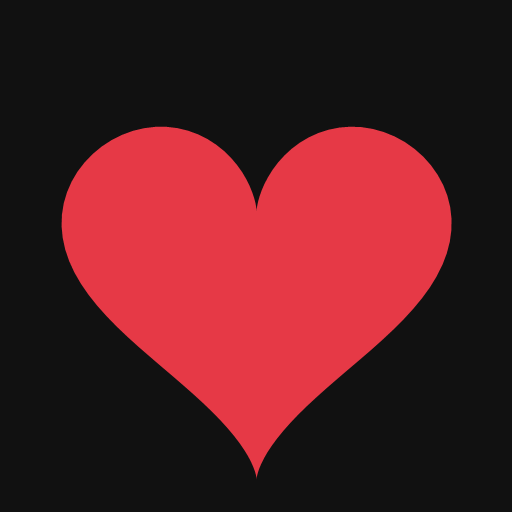
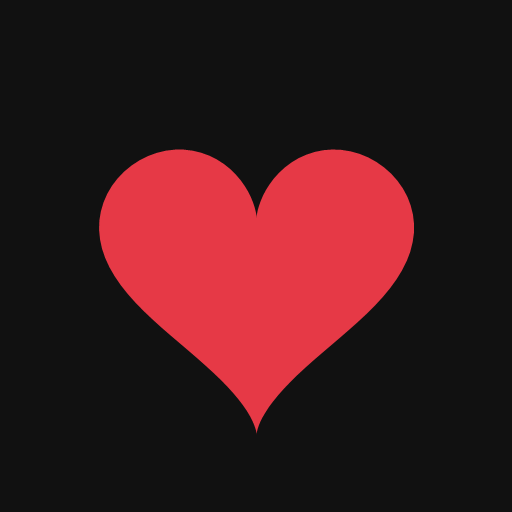
Improve PWA installability for home screen on iOS and Android.

Changed region(s): [[0.0938, 0.25, 0.9062, 0.9375], [0.4688, 0.3438, 0.5312, 0.4062]]

diff --git a/script.js b/script.js
@@ -102,15 +102,25 @@ function urlBase64ParaUint8Array(base64String) {
 }
 
 function ehIOS() {
-    return /iphone|ipad|ipod/i.test(navigator.userAgent);
+    return /iphone|ipad|ipod/i.test(navigator.userAgent) ||
+        (navigator.platform === 'MacIntel' && navigator.maxTouchPoints > 1);
+}
+
+function ehAndroid() {
+    return /android/i.test(navigator.userAgent);
 }
 
 function ehPWA() {
-    return window.matchMedia('(display-mode: standalone)').matches || window.navigator.standalone === true;
+    return window.matchMedia('(display-mode: standalone)').matches ||
+        window.matchMedia('(display-mode: fullscreen)').matches ||
+        window.navigator.standalone === true ||
+        new URLSearchParams(location.search).get('source') === 'pwa';
 }
 
 const NOTIF_ASKED_KEY = 'nosso-dia-notif-asked';
+const PWA_DISMISS_KEY = 'nosso-dia-pwa-dismiss';
 const pwaInstall = document.getElementById('pwa-install');
+const pwaInstallTexto = document.getElementById('pwa-install-texto');
 const btnInstall = document.getElementById('btn-install');
 const btnInstallFechar = document.getElementById('btn-install-fechar');
 let promptInstalacao = null;
@@ -124,34 +134,76 @@ function marcarPedidoNotificacao() {
     localStorage.setItem(NOTIF_ASKED_KEY, '1');
 }
 
+function mostrarBannerPWA(texto, rotuloBotao) {
+    if (!pwaInstall || ehPWA()) return;
+    if (localStorage.getItem(PWA_DISMISS_KEY) === '1') return;
+    if (texto && pwaInstallTexto) pwaInstallTexto.textContent = texto;
+    if (rotuloBotao && btnInstall) btnInstall.textContent = rotuloBotao;
+    pwaInstall.classList.remove('hidden');
+}
+
 if ('serviceWorker' in navigator) {
-    navigator.serviceWorker.register('./sw.js').catch(() => {});
+    navigator.serviceWorker.register('/sw.js', { scope: '/' }).catch(() => {});
 }
 
 window.addEventListener('beforeinstallprompt', (event) => {
     event.preventDefault();
     promptInstalacao = event;
-    if (pwaInstall && !ehPWA()) pwaInstall.classList.remove('hidden');
+    mostrarBannerPWA(
+        'Adicione o Nosso Dia na tela inicial para abrir como app e receber os recados.',
+        'Adicionar à tela inicial'
+    );
 });
 
-if (pwaInstall && ehIOS() && !ehPWA()) {
-    pwaInstall.classList.remove('hidden');
-    if (btnInstall) btnInstall.textContent = 'Como adicionar';
+window.addEventListener('appinstalled', () => {
+    localStorage.setItem(PWA_DISMISS_KEY, '1');
+    pwaInstall?.classList.add('hidden');
+    promptInstalacao = null;
+});
+
+if (!ehPWA()) {
+    if (ehIOS()) {
+        mostrarBannerPWA(
+            'No iPhone/iPad: toque em Compartilhar e depois em “Adicionar à Tela de Início”.',
+            'Ver como adicionar'
+        );
+    } else if (ehAndroid()) {
+        // Se o Chrome não disparar beforeinstallprompt, ainda orienta o usuário
+        setTimeout(() => {
+            if (!promptInstalacao) {
+                mostrarBannerPWA(
+                    'No Android: menu ⋮ do Chrome → “Adicionar à tela inicial” ou “Instalar app”.',
+                    'Como instalar'
+                );
+            }
+        }, 2500);
+    }
 }
 
 btnInstall?.addEventListener('click', async () => {
     if (promptInstalacao) {
         promptInstalacao.prompt();
-        await promptInstalacao.userChoice;
+        const escolha = await promptInstalacao.userChoice;
         promptInstalacao = null;
-        pwaInstall?.classList.add('hidden');
+        if (escolha?.outcome === 'accepted') {
+            localStorage.setItem(PWA_DISMISS_KEY, '1');
+            pwaInstall?.classList.add('hidden');
+        }
         return;
     }
 
-    pwaInstall.querySelector('p').textContent = 'No iPhone: toque em Compartilhar e depois em Adicionar à Tela de Início.';
+    if (ehIOS() && pwaInstallTexto) {
+        pwaInstallTexto.textContent = 'Safari → botão Compartilhar (quadrado com seta) → role e toque em “Adicionar à Tela de Início” → Adicionar.';
+        return;
+    }
+
+    if (pwaInstallTexto) {
+        pwaInstallTexto.textContent = 'Chrome → menu ⋮ → “Adicionar à tela inicial” ou “Instalar aplicativo”.';
+    }
 });
 
 btnInstallFechar?.addEventListener('click', () => {
+    localStorage.setItem(PWA_DISMISS_KEY, '1');
     pwaInstall?.classList.add('hidden');
 });
 

diff --git a/index.html b/index.html
@@ -1,17 +1,21 @@
 <!DOCTYPE html>
-<html lang="pt">
+<html lang="pt-BR">
 <head>
     <meta charset="UTF-8">
-    <meta name="viewport" content="width=device-width, initial-scale=1.0">
+    <meta name="viewport" content="width=device-width, initial-scale=1.0, viewport-fit=cover">
     <meta name="theme-color" content="#e63946">
+    <meta name="mobile-web-app-capable" content="yes">
     <meta name="apple-mobile-web-app-capable" content="yes">
     <meta name="apple-mobile-web-app-status-bar-style" content="black-translucent">
     <meta name="apple-mobile-web-app-title" content="Nosso Dia">
-    <title>Nosso Amor</title>
-    <link rel="stylesheet" href="./style.css">
-    <link rel="manifest" href="./manifest.json">
-    <link rel="icon" href="./icons/icon-192.png" type="image/png">
-    <link rel="apple-touch-icon" href="./icons/icon-192.png">
+    <meta name="application-name" content="Nosso Dia">
+    <meta name="description" content="O nosso cantinho. Um recadinho de amor todos os dias.">
+    <title>Nosso Dia</title>
+    <link rel="stylesheet" href="/style.css">
+    <link rel="manifest" href="/manifest.json">
+    <link rel="icon" href="/icons/icon-192.png" type="image/png" sizes="192x192">
+    <link rel="apple-touch-icon" href="/icons/apple-touch-icon.png" sizes="180x180">
+    <link rel="apple-touch-icon" href="/icons/icon-192.png" sizes="192x192">
 </head>
 <body>
     <div class="container">
@@ -49,11 +53,11 @@
             </div>
         </div>
     </div>
-    <div id="pwa-install" class="pwa-install hidden">
-        <p>Adicione na tela inicial para receber os recados mesmo com o site fechado.</p>
-        <button id="btn-install" type="button">Adicionar</button>
+    <div id="pwa-install" class="pwa-install hidden" role="dialog" aria-live="polite">
+        <p id="pwa-install-texto">Adicione o Nosso Dia na tela inicial para abrir como app e receber os recados.</p>
+        <button id="btn-install" type="button">Adicionar à tela inicial</button>
         <button id="btn-install-fechar" type="button" class="pwa-install-fechar">Agora não</button>
     </div>
-    <script src="./script.js"></script>
+    <script src="/script.js"></script>
 </body>
 </html>

diff --git a/sw.js b/sw.js
@@ -1,10 +1,11 @@
-const CACHE = 'nosso-dia-v4';
+const CACHE = 'nosso-dia-v5';
 const PRECACHE = [
-  './style.css',
-  './script.js',
-  './manifest.json',
-  './icons/icon-192.png',
-  './icons/icon-512.png'
+  '/style.css',
+  '/script.js',
+  '/manifest.json',
+  '/icons/icon-192.png',
+  '/icons/icon-512.png',
+  '/icons/apple-touch-icon.png'
 ];
 
 self.addEventListener('install', (event) => {
@@ -68,17 +69,17 @@ self.addEventListener('push', (event) => {
   event.waitUntil(
     self.registration.showNotification(data.title, {
       body: data.body,
-      icon: './icons/icon-192.png',
-      badge: './icons/icon-192.png',
+      icon: '/icons/icon-192.png',
+      badge: '/icons/icon-192.png',
       vibrate: [80, 40, 80],
-      data: { url: data.url || './' }
+      data: { url: data.url || '/?source=pwa' }
     })
   );
 });
 
 self.addEventListener('notificationclick', (event) => {
   event.notification.close();
-  const target = event.notification.data?.url || './';
+  const target = event.notification.data?.url || '/?source=pwa';
 
   event.waitUntil(
     self.clients.matchAll({ type: 'window', includeUncontrolled: true }).then((clients) => {

diff --git a/server/index.js b/server/index.js
@@ -105,6 +105,10 @@ app.use(express.static(root, {
       res.setHeader('Cache-Control', 'no-cache, no-store, must-revalidate');
       res.setHeader('Service-Worker-Allowed', '/');
     }
+    if (filePath.endsWith('manifest.json')) {
+      res.setHeader('Content-Type', 'application/manifest+json; charset=utf-8');
+      res.setHeader('Cache-Control', 'no-cache');
+    }
   }
 }));
 
